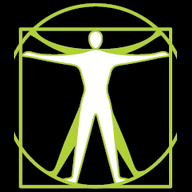
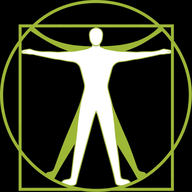
Add files via upload

Changed region(s): [[0.0, 0.0, 1.0, 1.0]]

diff --git a/index.html b/index.html
@@ -82,6 +82,27 @@
   .sw.cur{border-color:var(--yg);box-shadow:0 0 0 2px rgba(176,210,53,.4);}
   .sw i{display:block;}
   #swF .sw{width:80px;} .sw span{grid-column:1/-1;display:flex;align-items:center;justify-content:center;font-size:.72rem;}
+  /* ===== opening splash ===== */
+  #splash{position:fixed;inset:0;background:#000;z-index:90;display:flex;flex-direction:column;align-items:center;justify-content:center;gap:0;cursor:pointer;
+    transition:opacity .55s ease;}
+  #splash.out{opacity:0;pointer-events:none;}
+  #splash.gone{display:none;}
+  #spMark{width:min(58vw,300px);aspect-ratio:1;position:relative;opacity:0;transform:scale(.55);
+    animation:spMarkIn 1.15s cubic-bezier(.2,.9,.25,1.05) .15s forwards;}
+  #spMark img{width:100%;height:100%;display:block;}
+  #spMark::after{content:"";position:absolute;inset:-14%;border-radius:50%;pointer-events:none;
+    background:radial-gradient(circle,rgba(176,210,53,.45) 0%,rgba(176,210,53,0) 62%);opacity:0;animation:spGlow 1.6s ease-out .6s forwards;}
+  #spRule{width:0;height:3px;background:var(--yg);margin:22px 0 18px;animation:spRule .6s ease-out 1.05s forwards;}
+  #spLogo{width:min(78vw,400px);opacity:0;transform:translateY(14px);animation:spUp .6s ease-out 1.25s forwards;}
+  #spLogo img{width:100%;display:block;}
+  #spTag{margin-top:16px;font-family:"Arial Black",Arial,sans-serif;font-weight:900;color:var(--yg);font-size:clamp(13px,3.6vw,17px);letter-spacing:.22em;
+    text-transform:uppercase;opacity:0;animation:spUp .55s ease-out 1.75s forwards;}
+  #spSkip{position:absolute;bottom:max(22px,env(safe-area-inset-bottom));color:var(--mute);font-size:12px;letter-spacing:.12em;text-transform:uppercase;opacity:0;animation:spUp .5s ease-out 1.2s forwards;}
+  @keyframes spMarkIn{to{opacity:1;transform:scale(1);}}
+  @keyframes spGlow{0%{opacity:0;}40%{opacity:1;}100%{opacity:.35;}}
+  @keyframes spRule{to{width:min(60vw,320px);}}
+  @keyframes spUp{to{opacity:1;transform:translateY(0);}}
+  @media (prefers-reduced-motion:reduce){#spMark,#spRule,#spLogo,#spTag,#spSkip{animation-duration:.01s;animation-delay:0s;}}
   /* install guide overlay (first launch in a browser; hidden once installed) */
   #instOv{z-index:70;justify-content:flex-start;padding-top:max(22px,env(safe-area-inset-top));overflow:auto;}
   #instCard{background:var(--mid);border:1px solid var(--line);border-top:4px solid var(--yg);border-radius:6px;padding:20px 18px;max-width:400px;width:100%;text-align:left;margin:auto 0;}
@@ -180,6 +201,7 @@
 .lsTier{color:var(--yg);font-size:.72rem;letter-spacing:.14em;text-transform:uppercase;margin:14px 0 4px;text-align:left}
 .lsSoon{color:var(--mute);font-size:.86rem;text-align:left;margin:2px 0 6px}
 </style></head><body>
+<div id="splash"><div id="spMark"><img src="mark.png" alt=""></div><div id="spRule"></div><div id="spLogo"><img src="logo.png" alt="Yanke Bionics"></div><div id="spTag">Accept No Limitations.</div><div id="spSkip">Tap to skip</div></div>
 <div id="barWrap"><div id="bar"><div id="title"><img src="logo.png" alt="" onerror="this.style.display='none';this.nextElementSibling.style.display='block'"><span id="logoTxt">YANKE BIONICS</span></div><div id="turnWrap"><div id="dot"></div><div id="turnName"></div></div></div></div>
 <div class="tray" id="trayTop"></div>
 <div id="frame"><div id="board"></div></div>
@@ -196,7 +218,7 @@
   <button class="act ghost" id="hintBtn" style="display:none;">&#128161; Hint</button>
   <button class="act ghost" id="backBtn" style="display:none;">&#8617; Takeback</button>
   <button class="act" id="learnBtn">&#128214; Learn</button><button class="act ghost" id="themeBtn">&#127912; Theme</button><button class="act ghost" id="instBtn">&#128241; Install</button>
-<div id="ver">YANKE CHESS &middot; <b>v1.5</b> &middot; Sep 3 2026</div></div>
+<div id="ver">YANKE CHESS &middot; <b>v1.6</b> &middot; Sep 3 2026</div></div>
 <div id="toast"></div>
 <div class="ov" id="instOv"><div id="instCard">
   <h1>Put it on your phone</h1>
@@ -236,11 +258,17 @@
 /* guarded storage: in-memory fallback when localStorage is blocked (private mode, file://). Global for all scripts below. */
 const _ls=(function(){try{localStorage.setItem("__yc","1");localStorage.removeItem("__yc");return localStorage;}
   catch(e){const m={};return{getItem:k=>(k in m?m[k]:null),setItem:(k,v)=>{m[k]=String(v);},removeItem:k=>{delete m[k];}};}})();
-const YC_VERSION="v1.5 \u00b7 Sep 3 2026";
+const YC_VERSION="v1.6 \u00b7 Sep 3 2026";
 function ycToast(t){const el=document.getElementById("toast");if(!el)return;el.textContent=t;el.classList.add("show");
   clearTimeout(ycToast._t);ycToast._t=setTimeout(()=>el.classList.remove("show"),1800);}
 document.addEventListener("DOMContentLoaded",()=>{const v=document.getElementById("ver");if(v)v.addEventListener("click",()=>ycToast("Yanke Chess "+YC_VERSION));});
 if("serviceWorker" in navigator){window.addEventListener("load",()=>{navigator.serviceWorker.register("sw.js").catch(()=>{});});}
+/* ---- opening splash: ~2.9s, tap to skip, then fades to the game (start card / install guide sit underneath) ---- */
+(function(){const sp=document.getElementById("splash");if(!sp)return;let done=false;
+  function end(){if(done)return;done=true;sp.classList.add("out");setTimeout(()=>sp.classList.add("gone"),600);}
+  sp.addEventListener("click",end);
+  const RM=window.matchMedia&&window.matchMedia("(prefers-reduced-motion:reduce)").matches;
+  setTimeout(end,RM?900:2900);})();
 /* ---- install guide ---- */
 const YC_STANDALONE=(window.matchMedia&&window.matchMedia("(display-mode: standalone)").matches)||window.navigator.standalone===true;
 const YC_IOS=/iPad|iPhone|iPod/.test(navigator.userAgent)||(navigator.platform==="MacIntel"&&navigator.maxTouchPoints>1);

diff --git a/sw.js b/sw.js
@@ -2,8 +2,8 @@
    Online: every request hits the network; good responses are cached as they pass.
    Offline: falls back to the cache. Bump CACHE on EVERY deploy so installed phones update.
    CACHE name matches the version badge in index.html. */
-const CACHE="yankechess-v1.5-sep3-2026";
-const CORE=["index.html","manifest.webmanifest","logo.png","icon192.png","icon512.png","iconmaskable512.png","favicon.png"];
+const CACHE="yankechess-v1.6-sep3-2026";
+const CORE=["index.html","manifest.webmanifest","logo.png","mark.png","icon192.png","icon512.png","iconmaskable512.png","favicon.png"];
 self.addEventListener("install",e=>{
   e.waitUntil(caches.open(CACHE).then(c=>c.addAll(CORE)).then(()=>self.skipWaiting()));
 });

diff --git a/README.md b/README.md
@@ -1,11 +1,12 @@
-# Yanke Bionics Chess — v1.5 · Sep 3 2026
+# Yanke Bionics Chess — v1.6 · Sep 3 2026
 
 Standalone PWA. Upload every file in this folder to the ROOT of its own GitHub repo, enable Pages (main / root), open the Pages URL on a phone and "Add to Home Screen".
 
 Files:
 - index.html            the whole app (engine, coach, learn lessons, themes)
-- sw.js                 service worker (network-first, offline fallback). CACHE = yankechess-v1.5-sep3-2026
+- sw.js                 service worker (network-first, offline fallback). CACHE = yankechess-v1.6-sep3-2026
 - manifest.webmanifest  install metadata (name "Yanke Bionics Chess", short name "Yanke Chess")
+- mark.png              Vitruvian mark for the splash + icons
 - logo.png              real Yanke logo, near-black flattened to #000000, 1400px wide
 - icon192.png / icon512.png / iconmaskable512.png / favicon.png   Vitruvian mark cropped from the real logo on #000000
 
